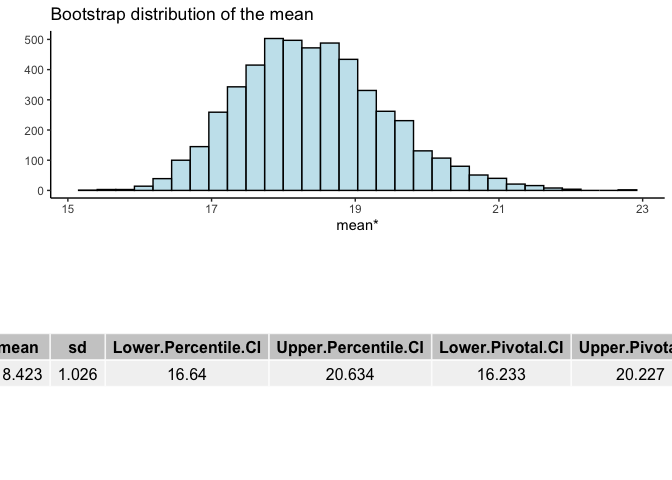
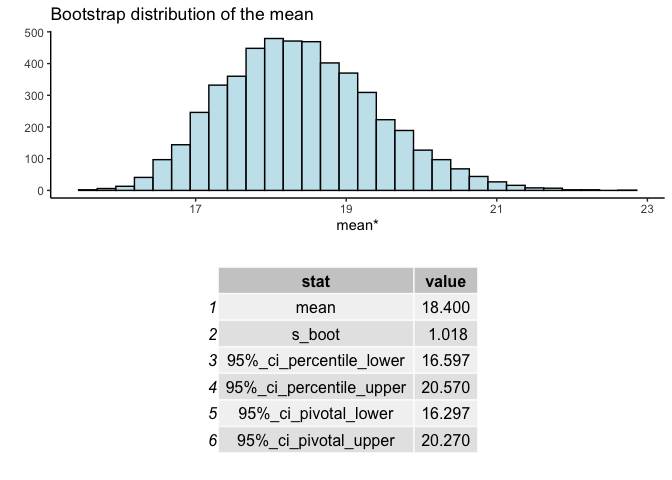
change bs_summarize table to long format

diff --git a/README.md b/README.md
@@ -22,7 +22,7 @@ devtools::install_github("lana1218/rbooty")
 library(rbooty)
 ```
 
-## Summarizing the bootsrap distribution
+## Summarizing the bootstrap distribution
 
 - `bs_summarize()` allows you to output the summary statistics and
   resulting bootstrap distribution in one output, given a desired
@@ -46,19 +46,19 @@ median_stat <- bs_loc_stat(tips$TipPercent, stat = "median")
 str(median_stat)
 #> List of 5
 #>  $ mean         : num 17.2
-#>  $ s_boot       : num 0.908
-#>  $ percentile_ci: num [1:2] 15.9 18.9
+#>  $ s_boot       : num 0.915
+#>  $ percentile_ci: num [1:2] 16 19
 #>  $ pivotal_ci   : num [1:2] 14.8 17.8
-#>  $ boot_dist    : num [1:5000] 18.1 17.2 16.6 16.6 18.2 ...
+#>  $ boot_dist    : num [1:5000] 16.2 18.1 18.5 16.9 16.4 ...
 
 sd_stat <- bs_scale_stat(tips$TipPercent, stat = "sd")
 str(sd_stat)
 #> List of 5
-#>  $ mean         : num 5.49
-#>  $ s_boot       : num 1.43
-#>  $ percentile_ci: num [1:2] 2.83 8.18
-#>  $ pivotal_ci   : num [1:2] 4.06 11.75
-#>  $ boot_dist    : num [1:5000] 4.62 6.85 3.82 5.74 6.25 ...
+#>  $ mean         : num 5.48
+#>  $ s_boot       : num 1.42
+#>  $ percentile_ci: num [1:2] 2.85 8.16
+#>  $ pivotal_ci   : num [1:2] 4.07 11.67
+#>  $ boot_dist    : num [1:5000] 6.87 8.94 3.51 8.39 5.8 ...
 ```
 
 You can also get a dataframe of the bootstrap distribution.
@@ -67,5 +67,14 @@ You can also get a dataframe of the bootstrap distribution.
 boot_dist <- bootstrap(tips$TipPercent, stat = "mean")
 
 head(boot_dist)
-#> [1] 19.05667 18.60667 16.67667 20.82333 18.60667 19.31333
+#> [1] 18.99333 17.39667 19.33333 19.98667 19.06000 18.80667
 ```
+
+You can use bs_plot to plot a bootstrap distribution.
+
+``` r
+bs_plot(boot_dist = boot_dist, stat = "mean")
+#> `stat_bin()` using `bins = 30`. Pick better value with `binwidth`.
+```
+
+<img src="man/figures/README-unnamed-chunk-7-1.png" width="100%" />
